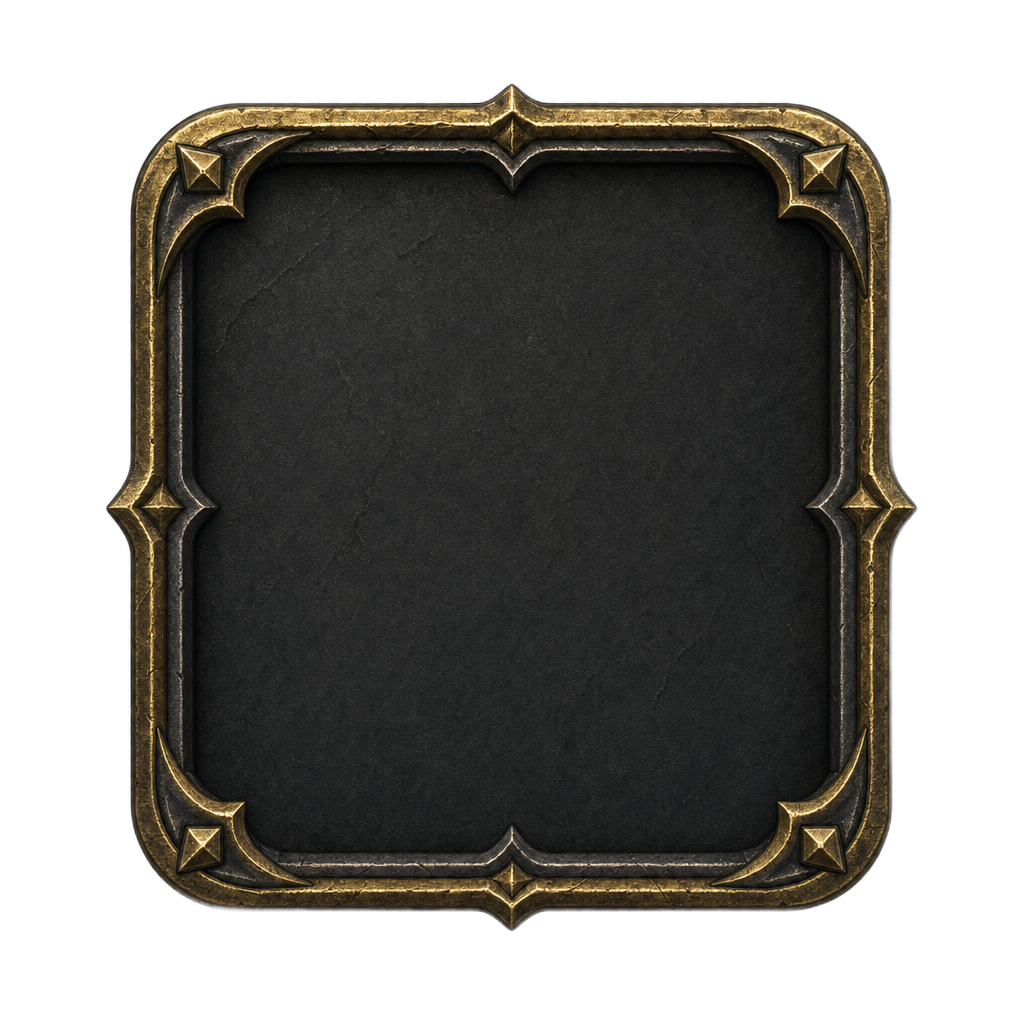
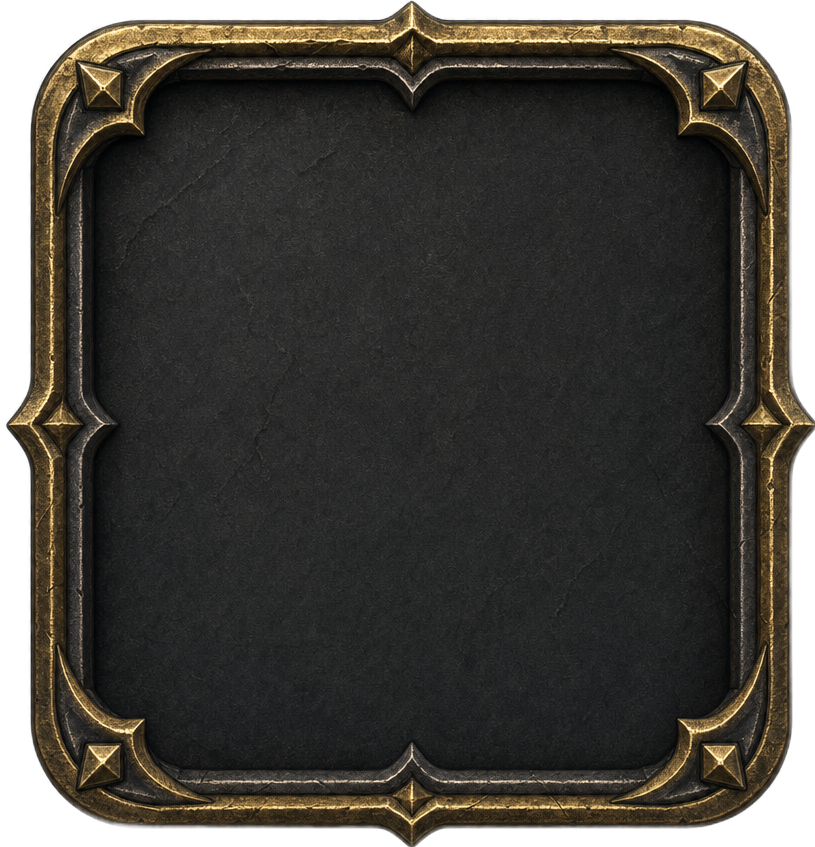
fixed

diff --git a/src/pages/game-setup-page/ui/GameSetupPage.css b/src/pages/game-setup-page/ui/GameSetupPage.css
@@ -113,7 +113,20 @@
   align-items: center;
   column-gap: 14px;
   row-gap: 8px;
-  margin-bottom: 12px;
+  margin-bottom: 10px;
+  padding-top: 22px;
+}
+
+.setup-race-topbar::before {
+  content: '';
+  position: absolute;
+  top: 0;
+  left: 50%;
+  transform: translateX(-50%);
+  width: min(64%, 300px);
+  height: 24px;
+  background: url('../../../assets/ui-presets/divider.png') center / contain no-repeat;
+  pointer-events: none;
 }
 
 .setup-race-topbar .setup-back-button {
@@ -141,14 +154,14 @@
 
 .setup-race-preview {
   position: relative;
-  margin-top: 12px;
+  margin-top: 8px;
   flex: 1;
   min-height: 0;
   overflow: hidden;
-  background: #0d1527;
+  background: transparent;
   opacity: 0;
   transition: opacity 180ms ease;
-  box-shadow: inset 0 0 0 1px rgba(44, 58, 82, 0.6), 0 20px 40px rgba(0, 0, 0, 0.42);
+  box-shadow: none;
 }
 
 .setup-race-preview-visible {
@@ -159,18 +172,17 @@
   content: '';
   position: absolute;
   inset: 0;
-  z-index: 4;
-  pointer-events: none;
-  border: 38px solid transparent;
-  border-image: url('../../../assets/ui-presets/panel_frame.png') 90 fill / 26px / 0 stretch;
+  display: none;
 }
 
 .setup-race-media {
   position: absolute;
-  inset: 20px;
+  inset: 10px;
   overflow: hidden;
   z-index: 1;
   background: #101927;
+  border: 22px solid transparent;
+  border-image: url('../../../assets/ui-presets/thin_border.png') 90 fill / 14px / 0 stretch;
 }
 
 .setup-race-preview-video {
@@ -195,8 +207,8 @@
   position: absolute;
   top: 50%;
   transform: translateY(-50%);
-  width: 50px;
-  height: 50px;
+  width: 48px;
+  height: 48px;
   border: 0;
   border-radius: 0;
   background: url('../../../assets/ui-presets/btn_small_square.png') center / 100% 100% no-repeat;
@@ -268,23 +280,23 @@
   width: 100%;
   margin: 0;
   font-family: var(--font-family-ui);
-  font-size: 20px;
+  font-size: 22px;
   font-weight: 700;
-  min-height: 56px;
-  padding: 10px 18px;
-  border: 30px solid transparent;
-  border-image: url('../../../assets/ui-presets/btn_green_normal.png') 80 fill / 24px / 0 round;
-  background: transparent;
+  min-height: 74px;
+  padding: 12px 20px;
+  border: 0;
+  background: url('../../../assets/ui-presets/btn_green_normal.png') center / 100% 100% no-repeat;
   color: #f2d9a2;
   cursor: pointer;
   text-transform: uppercase;
   letter-spacing: 0.04em;
   text-shadow: 0 1px 0 #2b1f0b;
-  transition: filter 0.2s ease;
+  transition: filter 0.2s ease, transform 0.2s ease;
 }
 
 .setup-next-button:hover {
-  filter: brightness(1.05);
+  filter: brightness(1.06);
+  transform: translateY(-1px);
 }
 
 .game-setup-page-race-mode .setup-next-button {
@@ -312,7 +324,7 @@
   align-items: center;
   padding: 16px 12px;
   border: 28px solid transparent;
-  border-image: url('../../../assets/ui-presets/panel_frame.png') 90 fill / 16px / 0 stretch;
+  border-image: url('../../../assets/ui-presets/thin_border.png') 90 fill / 16px / 0 stretch;
   cursor: pointer;
   transition: all 0.2s ease;
   text-align: center;
@@ -374,7 +386,7 @@
   align-items: center;
   padding: 14px 16px;
   border: 26px solid transparent;
-  border-image: url('../../../assets/ui-presets/panel_frame.png') 90 fill / 14px / 0 stretch;
+  border-image: url('../../../assets/ui-presets/thin_border.png') 90 fill / 14px / 0 stretch;
   background: transparent;
 }
 
